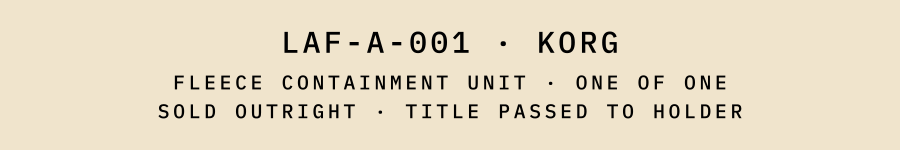
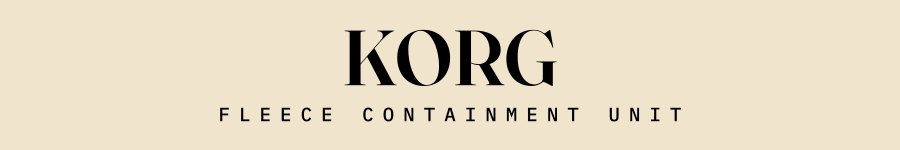
Simplify KORG handle to name and descriptor
Handle B now mirrors handle A's structure - name in Fraunces, descriptor in
mono beneath - so the two read as a matched pair.

Changed region(s): [[0.1867, 0.1867, 0.8089, 0.6133], [0.1556, 0.6933, 0.84, 0.8267]]

diff --git a/patch/handles.py b/patch/handles.py
@@ -20,14 +20,12 @@ handle_a = doc(
     f'<text x="41.5" y="20.4" font-family="IBM Plex Mono" font-weight="500" font-size="3.2" '
     f'letter-spacing="1.5" fill="{INK}">EST. 1986 · GRONINGEN</text>')
 
-# B — registry entry
+# B — the unit itself, mirroring A's structure
 handle_b = doc(
-    f'<text x="{W/2}" y="8.8" font-family="IBM Plex Mono" font-weight="500" font-size="5" '
-    f'letter-spacing="0.55" text-anchor="middle" fill="{INK}">LAF-A-001 · KORG</text>'
-    f'<text x="{W/2}" y="14.9" font-family="IBM Plex Mono" font-size="3.3" '
-    f'letter-spacing="0.6" text-anchor="middle" fill="{INK}">FLEECE CONTAINMENT UNIT · ONE OF ONE</text>'
-    f'<text x="{W/2}" y="19.7" font-family="IBM Plex Mono" font-size="3.3" '
-    f'letter-spacing="0.6" text-anchor="middle" fill="{INK}">SOLD OUTRIGHT · TITLE PASSED TO HOLDER</text>')
+    f'<text x="{W/2}" y="14.2" font-family="Fraunces" font-weight="600" font-size="13" '
+    f'text-anchor="middle" fill="{INK}">KORG</text>'
+    f'<text x="{W/2}" y="20.2" font-family="IBM Plex Mono" font-weight="500" font-size="3.2" '
+    f'letter-spacing="1.5" text-anchor="middle" fill="{INK}">FLEECE CONTAINMENT UNIT</text>')
 
 open(f'{D}/handle-a.svg','w').write(handle_a)
 open(f'{D}/handle-b.svg','w').write(handle_b)

diff --git a/patch/README.md b/patch/README.md
@@ -157,13 +157,13 @@ Engrave **both**. They are a visible pair when the basket is carried, so doing
 one reads as unfinished. But repeating the same text twice is decoration rather
 than information, so each handle carries a different half:
 
-- **Handle A — identity.** The mark, the wordmark, `EST. 1986 · GRONINGEN`.
-- **Handle B — registry.** `LAF-A-001 · KORG`, then
-  `FLEECE CONTAINMENT UNIT · ONE OF ONE` and
-  `SOLD OUTRIGHT · TITLE PASSED TO HOLDER`.
+- **Handle A — the firm.** The mark, the wordmark, `EST. 1986 · GRONINGEN`.
+- **Handle B — the object.** `KORG`, and `FLEECE CONTAINMENT UNIT` beneath it.
 
-That second handle is the point. Everything else in this gift is leased; KORG is
-the one item actually owned, and the object itself now says so.
+The two share a structure — name in Fraunces, descriptor in mono underneath — so
+they read as a matched pair rather than two unrelated engravings. Ink sits
+20 mm from each end on A and 37 mm on B, with an identical 4.8 mm above and
+below on both.
 
 ### Laser notes
 
